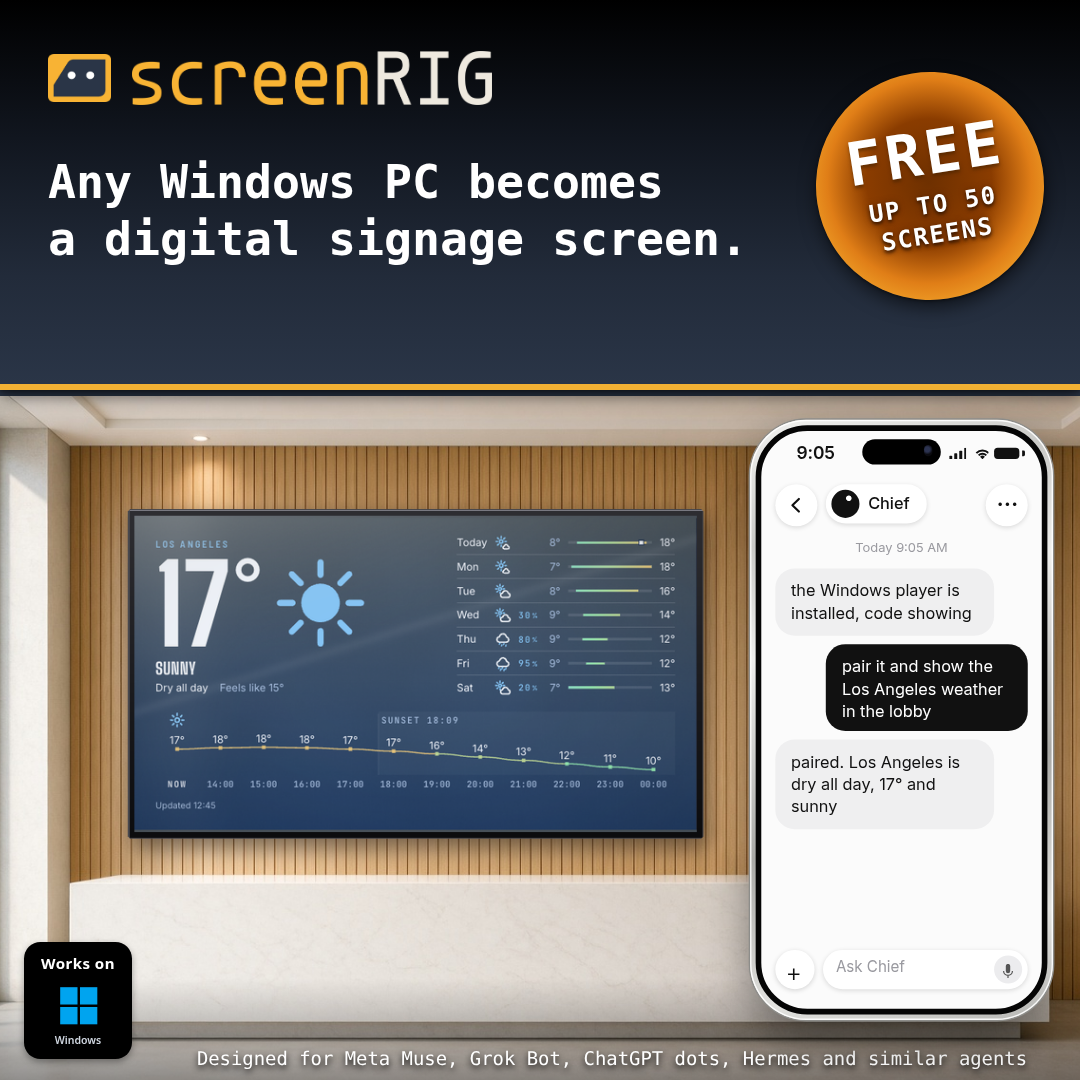
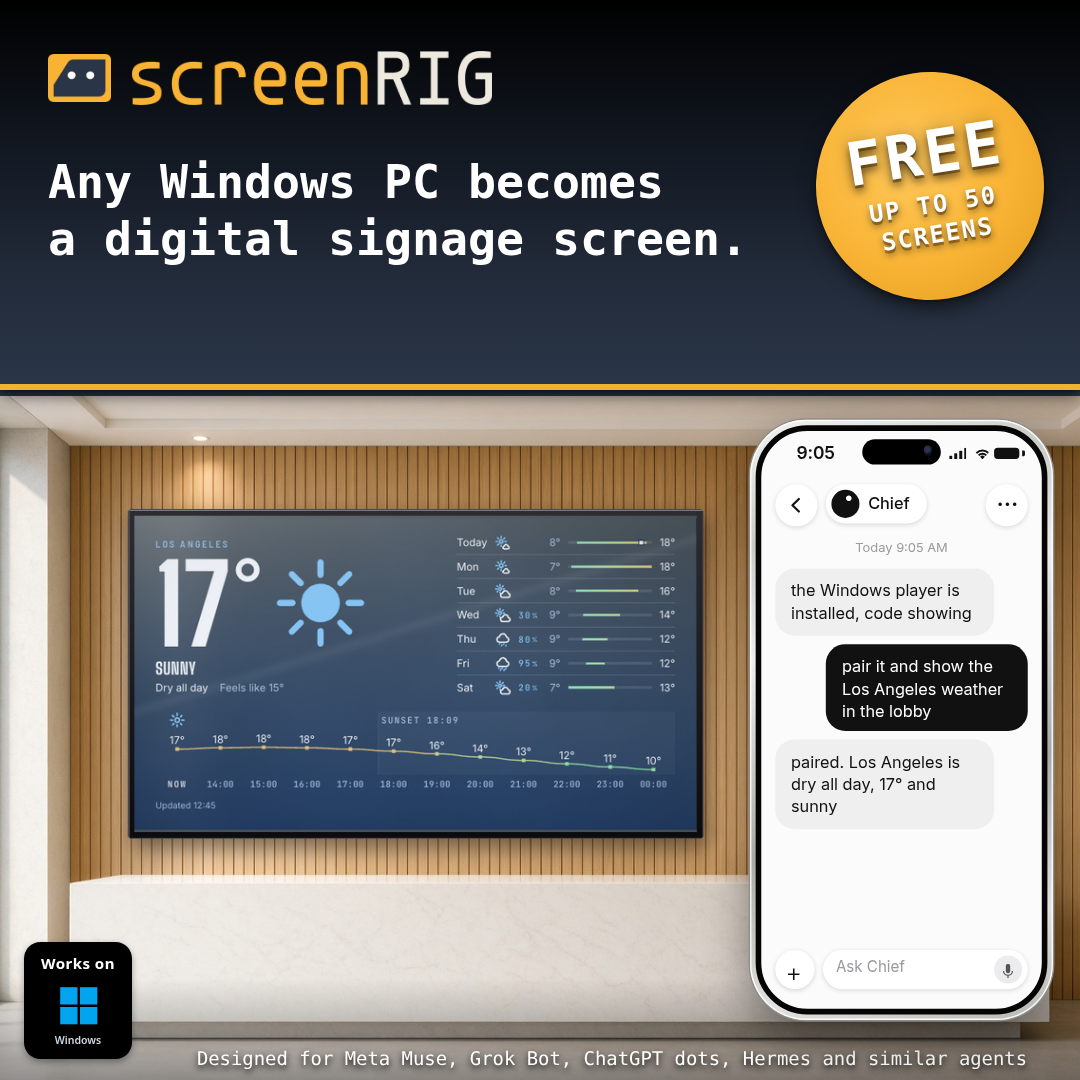
FREE badge: brandkit amber #F8B334, no stitch/inner disk, white text w/ drop shadows; re-export all 21 samples

Changed region(s): [[0.7333, 0.0611, 0.9778, 0.275]]

diff --git a/creatives-review.html b/creatives-review.html
@@ -33,13 +33,13 @@ textarea{width:100%;min-height:52px;background:#1a2130;color:var(--tx);border:1p
 .rib{position:absolute;top:24px;right:-56px;width:220px;transform:rotate(45deg);background:var(--mus);color:#fff;text-align:center;padding:3px 0;z-index:3}
 .rib b{display:block;font-size:22px;letter-spacing:2px;line-height:1}.rib span{font-size:7.5px;letter-spacing:1px;color:#2a3547;font-weight:700}
 .mock.hdr-badge .plate{background:linear-gradient(0deg,#2a3547 0%,#222b3a 28%,#11161f 64%,#000 100%);box-shadow:0 2.2px 5px rgba(0,0,0,.55),0 .6px 1.2px rgba(0,0,0,.35);z-index:2}
-.badge{position:absolute;right:26px;top:17px;width:90px;height:90px;border-radius:50%;z-index:3;transform:rotate(-9deg);background:radial-gradient(circle at 50% 48%,#6e3000 0%,#8a3c00 38%,#e07e17 62%,#f0a128 78%,#ffd45a 100%);box-shadow:0 2.5px 6px rgba(0,0,0,.55),0 .5px 1px rgba(0,0,0,.4);display:flex;flex-direction:column;align-items:center;justify-content:center;color:#fff;font-family:ui-monospace,Menlo,Consolas,monospace;text-align:center}
+.badge{position:absolute;right:26px;top:17px;width:90px;height:90px;border-radius:50%;z-index:3;transform:rotate(-9deg);background:radial-gradient(circle at 42% 38%,#ffc85a 0%,#F8B334 55%,#e09a1c 100%);box-shadow:0 2.5px 6px rgba(0,0,0,.55),0 .5px 1px rgba(0,0,0,.4);display:flex;flex-direction:column;align-items:center;justify-content:center;color:#fff;font-family:ui-monospace,Menlo,Consolas,monospace;text-align:center}
 
 .badge.badge-sm{width:76px;height:76px;right:12px;top:24px}.badge.badge-sm b{font-size:20px}.badge.badge-sm span{font-size:8px;margin-top:3.5px}
-.badge:before{display:none}
-.badge:after{content:none} /* radial fill on .badge replaces inner disc */
-.badge b{position:relative;z-index:3;font-size:24px;font-weight:800;letter-spacing:1.2px;line-height:1;text-shadow:0 1px 1.1px rgba(70,35,0,.6)}
-.badge span{position:relative;z-index:3;font-size:9.2px;font-weight:800;letter-spacing:.55px;line-height:1.2;margin-top:5px;color:#fff;text-shadow:0 .8px 1.2px rgba(50,20,0,.95),0 0 2px rgba(80,35,0,.7)}
+.badge:before{display:none!important}
+.badge:after{display:none!important} /* radial fill on .badge replaces inner disc */
+.badge b{position:relative;z-index:3;font-size:24px;font-weight:800;letter-spacing:1.2px;line-height:1;color:#fff;text-shadow:0 2px 3px rgba(0,0,0,.55),0 1px 0 rgba(80,40,0,.45),0 0 6px rgba(0,0,0,.25)}
+.badge span{position:relative;z-index:3;font-size:9.2px;font-weight:800;letter-spacing:.55px;line-height:1.2;margin-top:5px;color:#fff;text-shadow:0 1.5px 2.5px rgba(0,0,0,.55),0 1px 0 rgba(80,40,0,.4)}
 .scene{position:absolute;top:132px;left:0;right:0;bottom:0}
 .tv{position:absolute;left:14px;top:34px;width:204px;aspect-ratio:16/9;background:#0f1724;border:3px solid #111;border-radius:2px;box-shadow:0 6px 14px rgba(0,0,0,.5);padding:7px 8px;font-family:system-ui,sans-serif;color:#fff}
 .tv h4{margin:0 0 3px;font-size:9px}.tv .row{font-size:6.6px;border-top:1px solid #2c3a55;padding:2.5px 0;color:#d6dde8;white-space:nowrap;overflow:hidden;text-overflow:ellipsis}

diff --git a/index.html b/index.html
@@ -33,13 +33,13 @@ textarea{width:100%;min-height:52px;background:#1a2130;color:var(--tx);border:1p
 .rib{position:absolute;top:24px;right:-56px;width:220px;transform:rotate(45deg);background:var(--mus);color:#fff;text-align:center;padding:3px 0;z-index:3}
 .rib b{display:block;font-size:22px;letter-spacing:2px;line-height:1}.rib span{font-size:7.5px;letter-spacing:1px;color:#2a3547;font-weight:700}
 .mock.hdr-badge .plate{background:linear-gradient(0deg,#2a3547 0%,#222b3a 28%,#11161f 64%,#000 100%);box-shadow:0 2.2px 5px rgba(0,0,0,.55),0 .6px 1.2px rgba(0,0,0,.35);z-index:2}
-.badge{position:absolute;right:26px;top:17px;width:90px;height:90px;border-radius:50%;z-index:3;transform:rotate(-9deg);background:radial-gradient(circle at 50% 48%,#6e3000 0%,#8a3c00 38%,#e07e17 62%,#f0a128 78%,#ffd45a 100%);box-shadow:0 2.5px 6px rgba(0,0,0,.55),0 .5px 1px rgba(0,0,0,.4);display:flex;flex-direction:column;align-items:center;justify-content:center;color:#fff;font-family:ui-monospace,Menlo,Consolas,monospace;text-align:center}
+.badge{position:absolute;right:26px;top:17px;width:90px;height:90px;border-radius:50%;z-index:3;transform:rotate(-9deg);background:radial-gradient(circle at 42% 38%,#ffc85a 0%,#F8B334 55%,#e09a1c 100%);box-shadow:0 2.5px 6px rgba(0,0,0,.55),0 .5px 1px rgba(0,0,0,.4);display:flex;flex-direction:column;align-items:center;justify-content:center;color:#fff;font-family:ui-monospace,Menlo,Consolas,monospace;text-align:center}
 
 .badge.badge-sm{width:76px;height:76px;right:12px;top:24px}.badge.badge-sm b{font-size:20px}.badge.badge-sm span{font-size:8px;margin-top:3.5px}
-.badge:before{display:none}
-.badge:after{content:none} /* radial fill on .badge replaces inner disc */
-.badge b{position:relative;z-index:3;font-size:24px;font-weight:800;letter-spacing:1.2px;line-height:1;text-shadow:0 1px 1.1px rgba(70,35,0,.6)}
-.badge span{position:relative;z-index:3;font-size:9.2px;font-weight:800;letter-spacing:.55px;line-height:1.2;margin-top:5px;color:#fff;text-shadow:0 .8px 1.2px rgba(50,20,0,.95),0 0 2px rgba(80,35,0,.7)}
+.badge:before{display:none!important}
+.badge:after{display:none!important} /* radial fill on .badge replaces inner disc */
+.badge b{position:relative;z-index:3;font-size:24px;font-weight:800;letter-spacing:1.2px;line-height:1;color:#fff;text-shadow:0 2px 3px rgba(0,0,0,.55),0 1px 0 rgba(80,40,0,.45),0 0 6px rgba(0,0,0,.25)}
+.badge span{position:relative;z-index:3;font-size:9.2px;font-weight:800;letter-spacing:.55px;line-height:1.2;margin-top:5px;color:#fff;text-shadow:0 1.5px 2.5px rgba(0,0,0,.55),0 1px 0 rgba(80,40,0,.4)}
 .scene{position:absolute;top:132px;left:0;right:0;bottom:0}
 .tv{position:absolute;left:14px;top:34px;width:204px;aspect-ratio:16/9;background:#0f1724;border:3px solid #111;border-radius:2px;box-shadow:0 6px 14px rgba(0,0,0,.5);padding:7px 8px;font-family:system-ui,sans-serif;color:#fff}
 .tv h4{margin:0 0 3px;font-size:9px}.tv .row{font-size:6.6px;border-top:1px solid #2c3a55;padding:2.5px 0;color:#d6dde8;white-space:nowrap;overflow:hidden;text-overflow:ellipsis}
